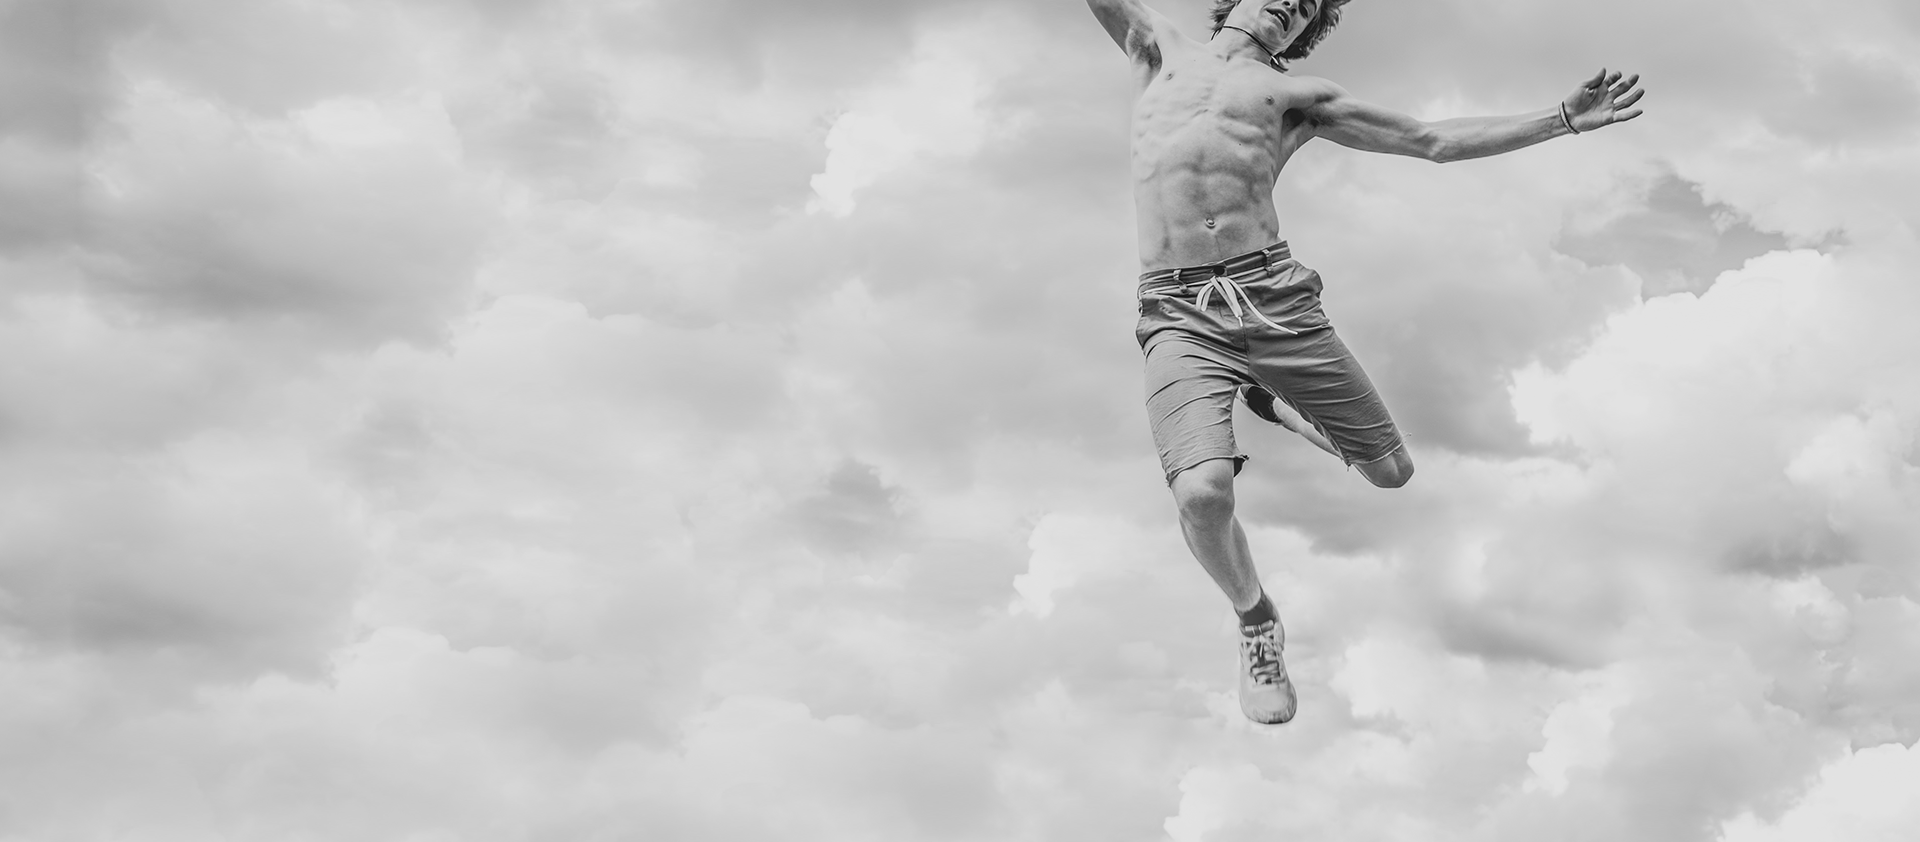
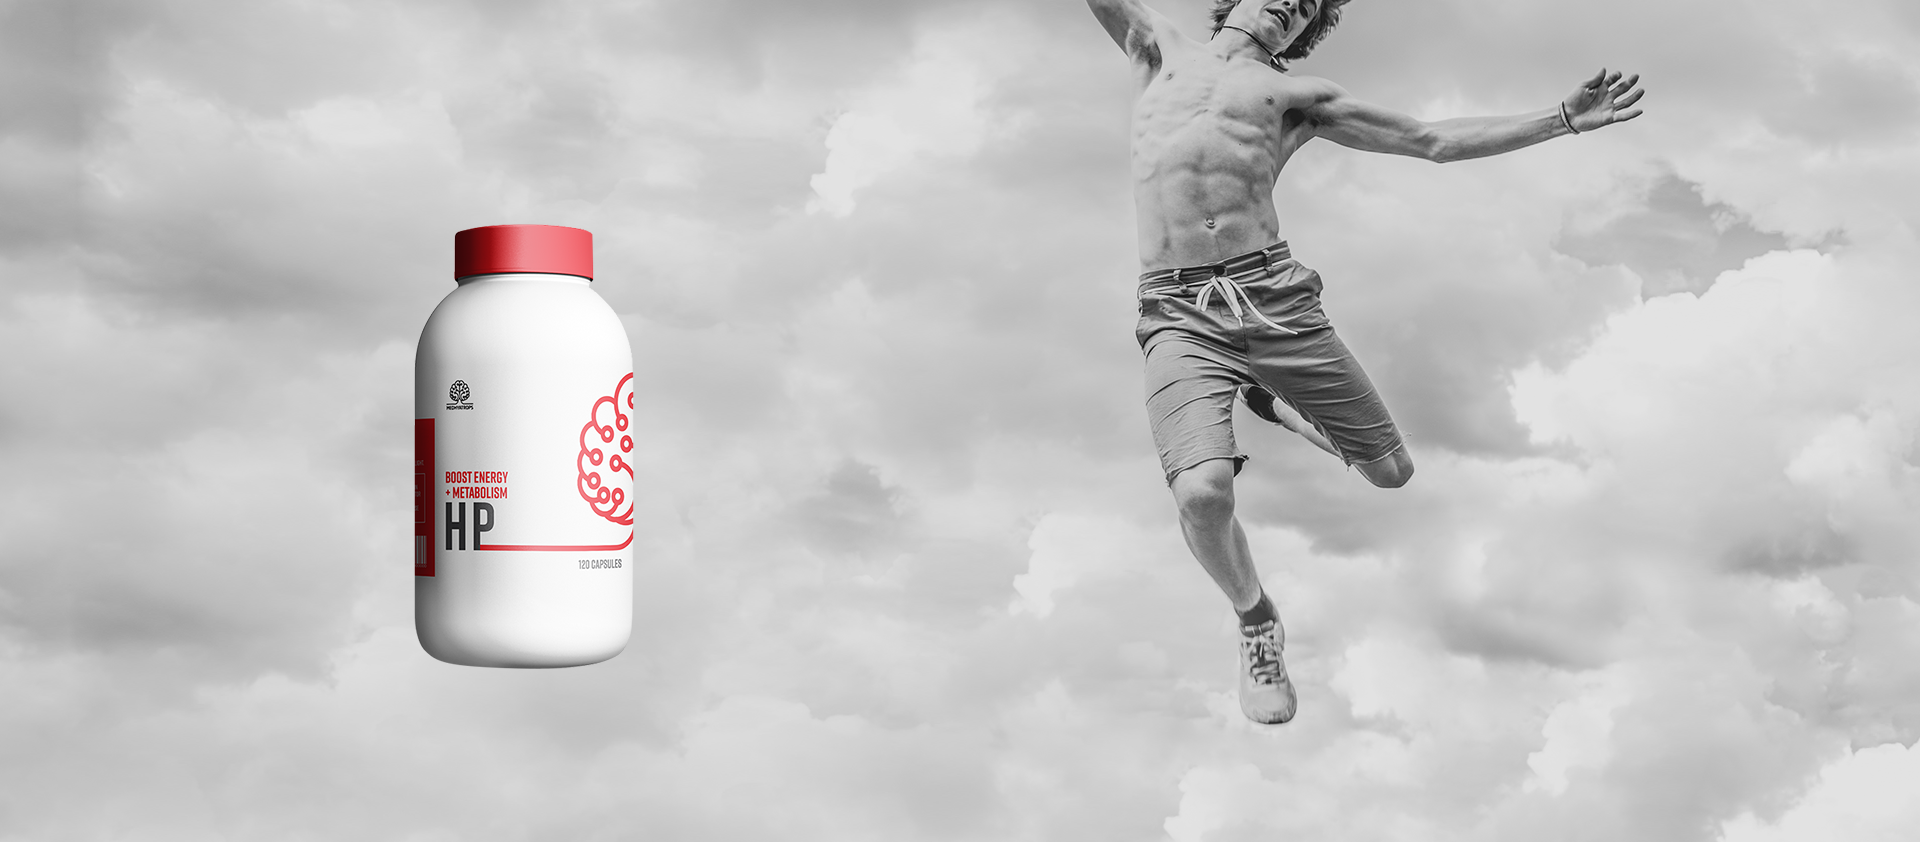
slider not finished

Changed region(s): [[0.2188, 0.247, 0.3438, 0.8029]]

diff --git a/styles/index.css b/styles/index.css
@@ -4,33 +4,136 @@
 	box-sizing: border-box;
 }
 
-
-section.awSlider .carousel{
-  display:table;
-  z-index:2;
+.container {
+  width: 100%;
+  height: 5650px;
 }
 
-section.awSlider{
-  margin:30px auto;
-  padding:30px;
-  position:relative;
-  display:table;
-  -webkit-touch-callout: none;
-  -webkit-user-select: none;
-  -khtml-user-select: none;
-  -moz-user-select: none;
-  -ms-user-select: none;
-  user-select: none;
+.carousel {
+    position: relative;
+    /*box-shadow: 0px 1px 6px rgba(0, 0, 0, 0.64);*/
 }
 
-
-section.awSlider img{
-   pointer-events: none;
+.carousel-inner {
+    position: relative;
+    overflow: hidden;
+    width: 100%;
 }
 
-section.awSlider > img{
-  position:absolute;
-  top:30px;
-  z-index:1;
-  transition:all 4s;
+.carousel-open:checked + .carousel-item {
+    position: static;
+    opacity: 100;
+}
+
+.carousel-item {
+    position: absolute;
+    opacity: 0;
+    -webkit-transition: opacity 0.6s ease-out;
+    transition: opacity 0.6s ease-out;
+    position: absolute;
+}
+
+.carousel-item img {
+    margin-top: 150px;
+    display: block;
+    height: auto;
+    max-width: 100%;
+}
+
+.carouselDivCloser {
+  width: 420px;
+  height: 370px;
+  margin-left: 500px;
+  background-color: red;
+  position: relative;
+}
+
+.carouselDivFurther {
+
+}
+
+.carousel-control {
+    background: rgba(0, 0, 0, 0.28);
+    border-radius: 50%;
+    color: #fff;
+    cursor: pointer;
+    display: none;
+    font-size: 40px;
+    height: 40px;
+    line-height: 35px;
+    position: absolute;
+    top: 50%;
+    -webkit-transform: translate(0, -50%);
+    cursor: pointer;
+    -ms-transform: translate(0, -50%);
+    transform: translate(0, -50%);
+    text-align: center;
+    width: 40px;
+    z-index: 10;
+}
+
+.carousel-control.prev {
+    left: 2%;
+}
+
+.carousel-control.next {
+    right: 2%;
+}
+
+.carousel-control:hover {
+    background: rgba(0, 0, 0, 0.8);
+    color: #aaaaaa;
+}
+
+#carousel-1:checked ~ .control-1,
+#carousel-2:checked ~ .control-2,
+#carousel-3:checked ~ .control-3 {
+    display: block;
+}
+
+.carousel-indicators {
+    list-style: none;
+    margin: 0;
+    padding: 0;
+    position: absolute;
+    bottom: 2%;
+    left: 0;
+    right: 0;
+    text-align: center;
+    z-index: 10;
+}
+
+.carousel-indicators li {
+    display: inline-block;
+    margin: 0 5px;
+}
+
+.carousel-bullet {
+    color: #fff;
+    cursor: pointer;
+    display: block;
+    font-size: 35px;
+}
+
+.carousel-bullet:hover {
+    color: #aaaaaa;
+}
+
+#carousel-1:checked ~ .control-1 ~ .carousel-indicators li:nth-child(1) .carousel-bullet,
+#carousel-2:checked ~ .control-2 ~ .carousel-indicators li:nth-child(2) .carousel-bullet,
+#carousel-3:checked ~ .control-3 ~ .carousel-indicators li:nth-child(3) .carousel-bullet {
+    color: #428bca;
+}
+
+#title {
+    width: 100%;
+    position: absolute;
+    padding: 0px;
+    margin: 0px auto;
+    text-align: center;
+    font-size: 27px;
+    color: rgba(255, 255, 255, 1);
+    font-family: 'Open Sans', sans-serif;
+    z-index: 9999;
+    text-shadow: 0px 1px 2px rgba(0, 0, 0, 0.33), -1px 0px 2px rgba(255, 255, 255, 0);
 }

diff --git a/styles/header.css b/styles/header.css
@@ -10,6 +10,8 @@
 	border-bottom: 3px solid black;
 	position: fixed;
 	background-color: white;
+	display: block;
+	/*z-index: 10000;*/
 }
 
 	nav {

diff --git a/index.php b/index.php
@@ -9,53 +9,63 @@
 	<link rel="stylesheet" type="text/css" href="styles/index.css">
 	<link href="https://fonts.googleapis.com/css?family=Oswald:300,400,600,700|Raleway:300,400,600,700" rel="stylesheet">
 	<title>Medhyatrops</title>
-  <script src="https://code.jquery.com/jquery-2.1.3.js"
-  integrity="sha256-goy7ystDD5xbXSf+kwL4eV6zOPJCEBD1FBiCElIm+U8="
-  crossorigin="anonymous"></script>
-  <script src="//maxcdn.bootstrapcdn.com/bootstrap/3.3.4/js/bootstrap.min.js"></script>
+  <script type="text/javascript" src="scripts/slider.js"></script>
 
 	
 </head>
 <body>
+<div class="container">
 	<?php include('header.html'); ?>
-	<div class="slider">
-		<section class="awSlider">
-  <div  class="carousel slide" data-ride="carousel">
-    <!-- Indicators -->
-    <ol class="carousel-indicators">
-      <li data-target=".carousel" data-slide-to="0" class="active"></li>
-      <li data-target=".carousel" data-slide-to="1"></li>
-      <li data-target=".carousel" data-slide-to="2"></li>
-      <li data-target=".carousel" data-slide-to="3"></li>
-    </ol>
 
-    <!-- Wrapper for slides -->
-    <div class="carousel-inner" role="listbox">
-      <div class="item active">
-        <img src="media/images/sliderimage1.png">
-      </div>
-      <div class="item">
-        <img src="media/images/sliderimage2.png">
-      </div>
-      <div class="item">
-        <img src="media/images/sliderimage3.png">
-      </div>
+  <div class="carousel">
+    <div class="carousel-inner">
+        <input class="carousel-open" type="radio" id="carousel-1" name="carousel" aria-hidden="true" hidden="" checked="checked">
+        <div class="carousel-item">
+            <img class="mySlides" src="media/images/sliderimage1.png">
+            <div class="carouselDivCloser">
+              <p></p>
+              <p></p>
+              <div><span></span></div>
+            </div>
+        </div>
+        <input class="carousel-open" type="radio" id="carousel-2" name="carousel" aria-hidden="true" hidden="">
+        <div class="carousel-item">
+            <img class="mySlides" src="media/images/sliderimage2.png">
+            <div class="carouselDivCloser">
+              <p></p>
+              <p></p>
+              <div><span></span></div>
+            </div>
+        </div>
+        <input class="carousel-open" type="radio" id="carousel-3" name="carousel" aria-hidden="true" hidden="">
+        <div class="carousel-item">
+            <img class="mySlides" src="media/images/sliderimage3.png">
+            <div class="carouselDivFurther">
+              <p></p>
+              <p></p>
+              <div><span></span></div>
+            </div>
+        </div>
+        <label for="carousel-3" class="carousel-control prev control-1">‹</label>
+        <label for="carousel-2" class="carousel-control next control-1">›</label>
+        <label for="carousel-1" class="carousel-control prev control-2">‹</label>
+        <label for="carousel-3" class="carousel-control next control-2">›</label>
+        <label for="carousel-2" class="carousel-control prev control-3">‹</label>
+        <label for="carousel-1" class="carousel-control next control-3">›</label>
+        <ol class="carousel-indicators">
+            <li>
+                <label for="carousel-1" class="carousel-bullet">•</label>
+            </li>
+            <li>
+                <label for="carousel-2" class="carousel-bullet">•</label>
+            </li>
+            <li>
+                <label for="carousel-3" class="carousel-bullet">•</label>
+            </li>
+        </ol>
     </div>
-
-    <!-- Controls -->
-    <a class="left carousel-control" href=".carousel" role="button" data-slide="prev">
-      <span class="glyphicon glyphicon-chevron-left" aria-hidden="true"></span>
-    </a>
-    <a class="right carousel-control" href=".carousel" role="button" data-slide="next">
-      <span class="glyphicon glyphicon-chevron-right" aria-hidden="true"></span>
-    </a>
   </div>
-</section>
 
-
-
-
-	</div>
 
 
 
@@ -73,5 +83,7 @@
 		
 	</div>
 	<!-- <?php include('footer.html'); ?> -->
+
+  </div>
 </body>
 </html>
